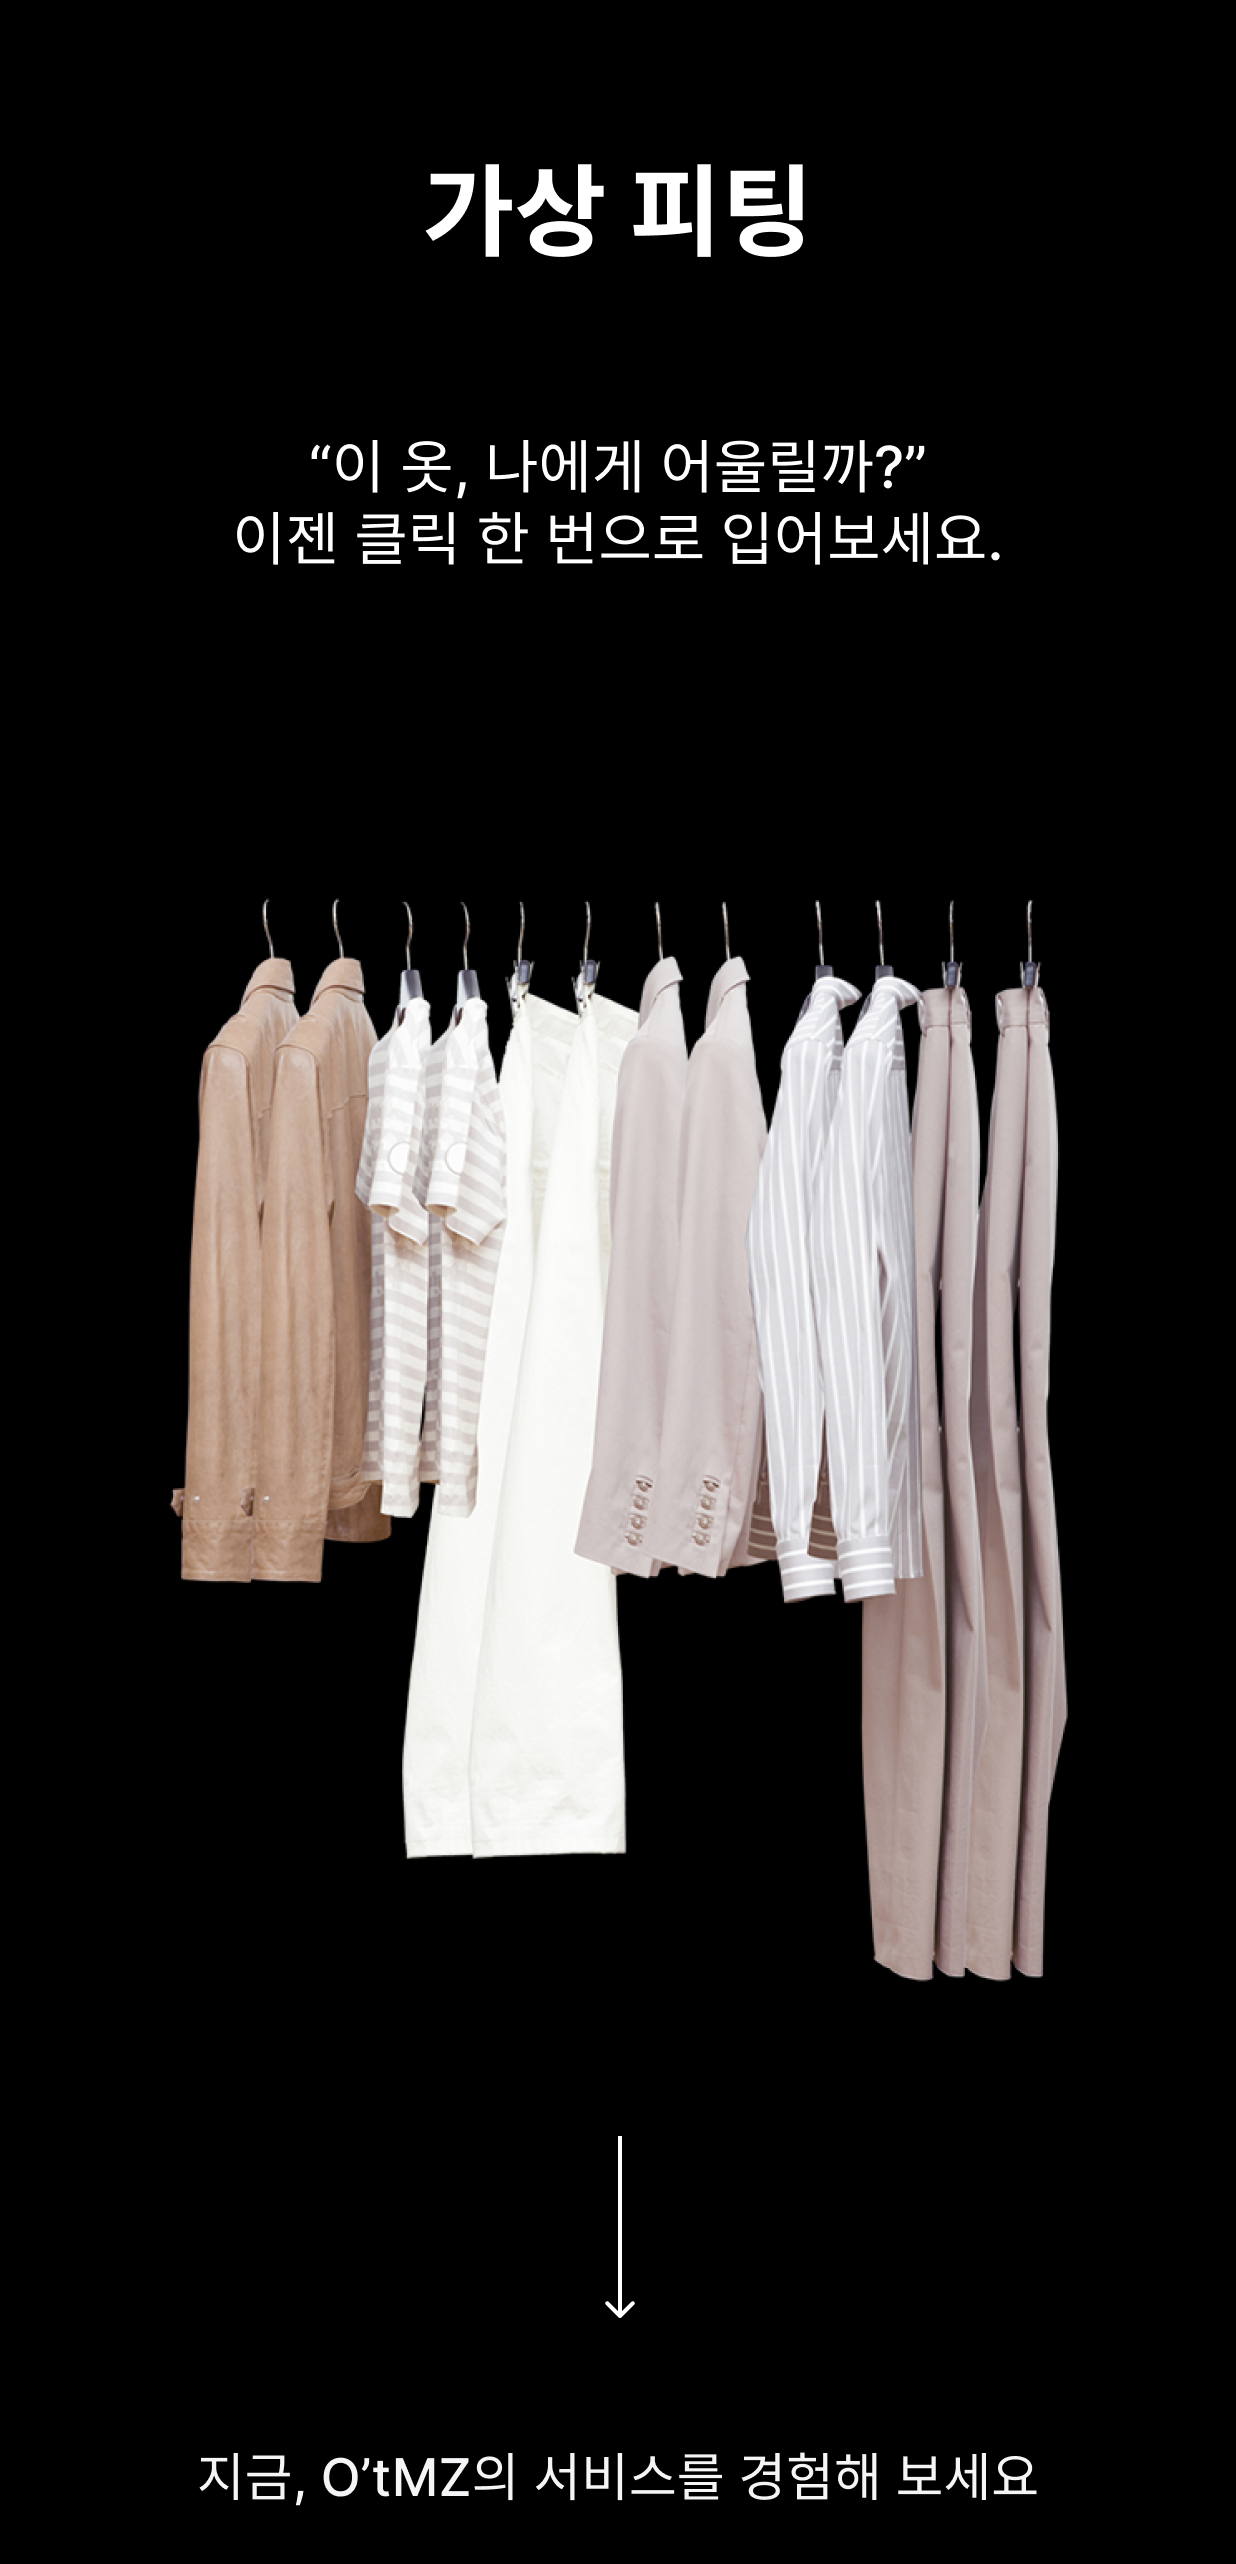
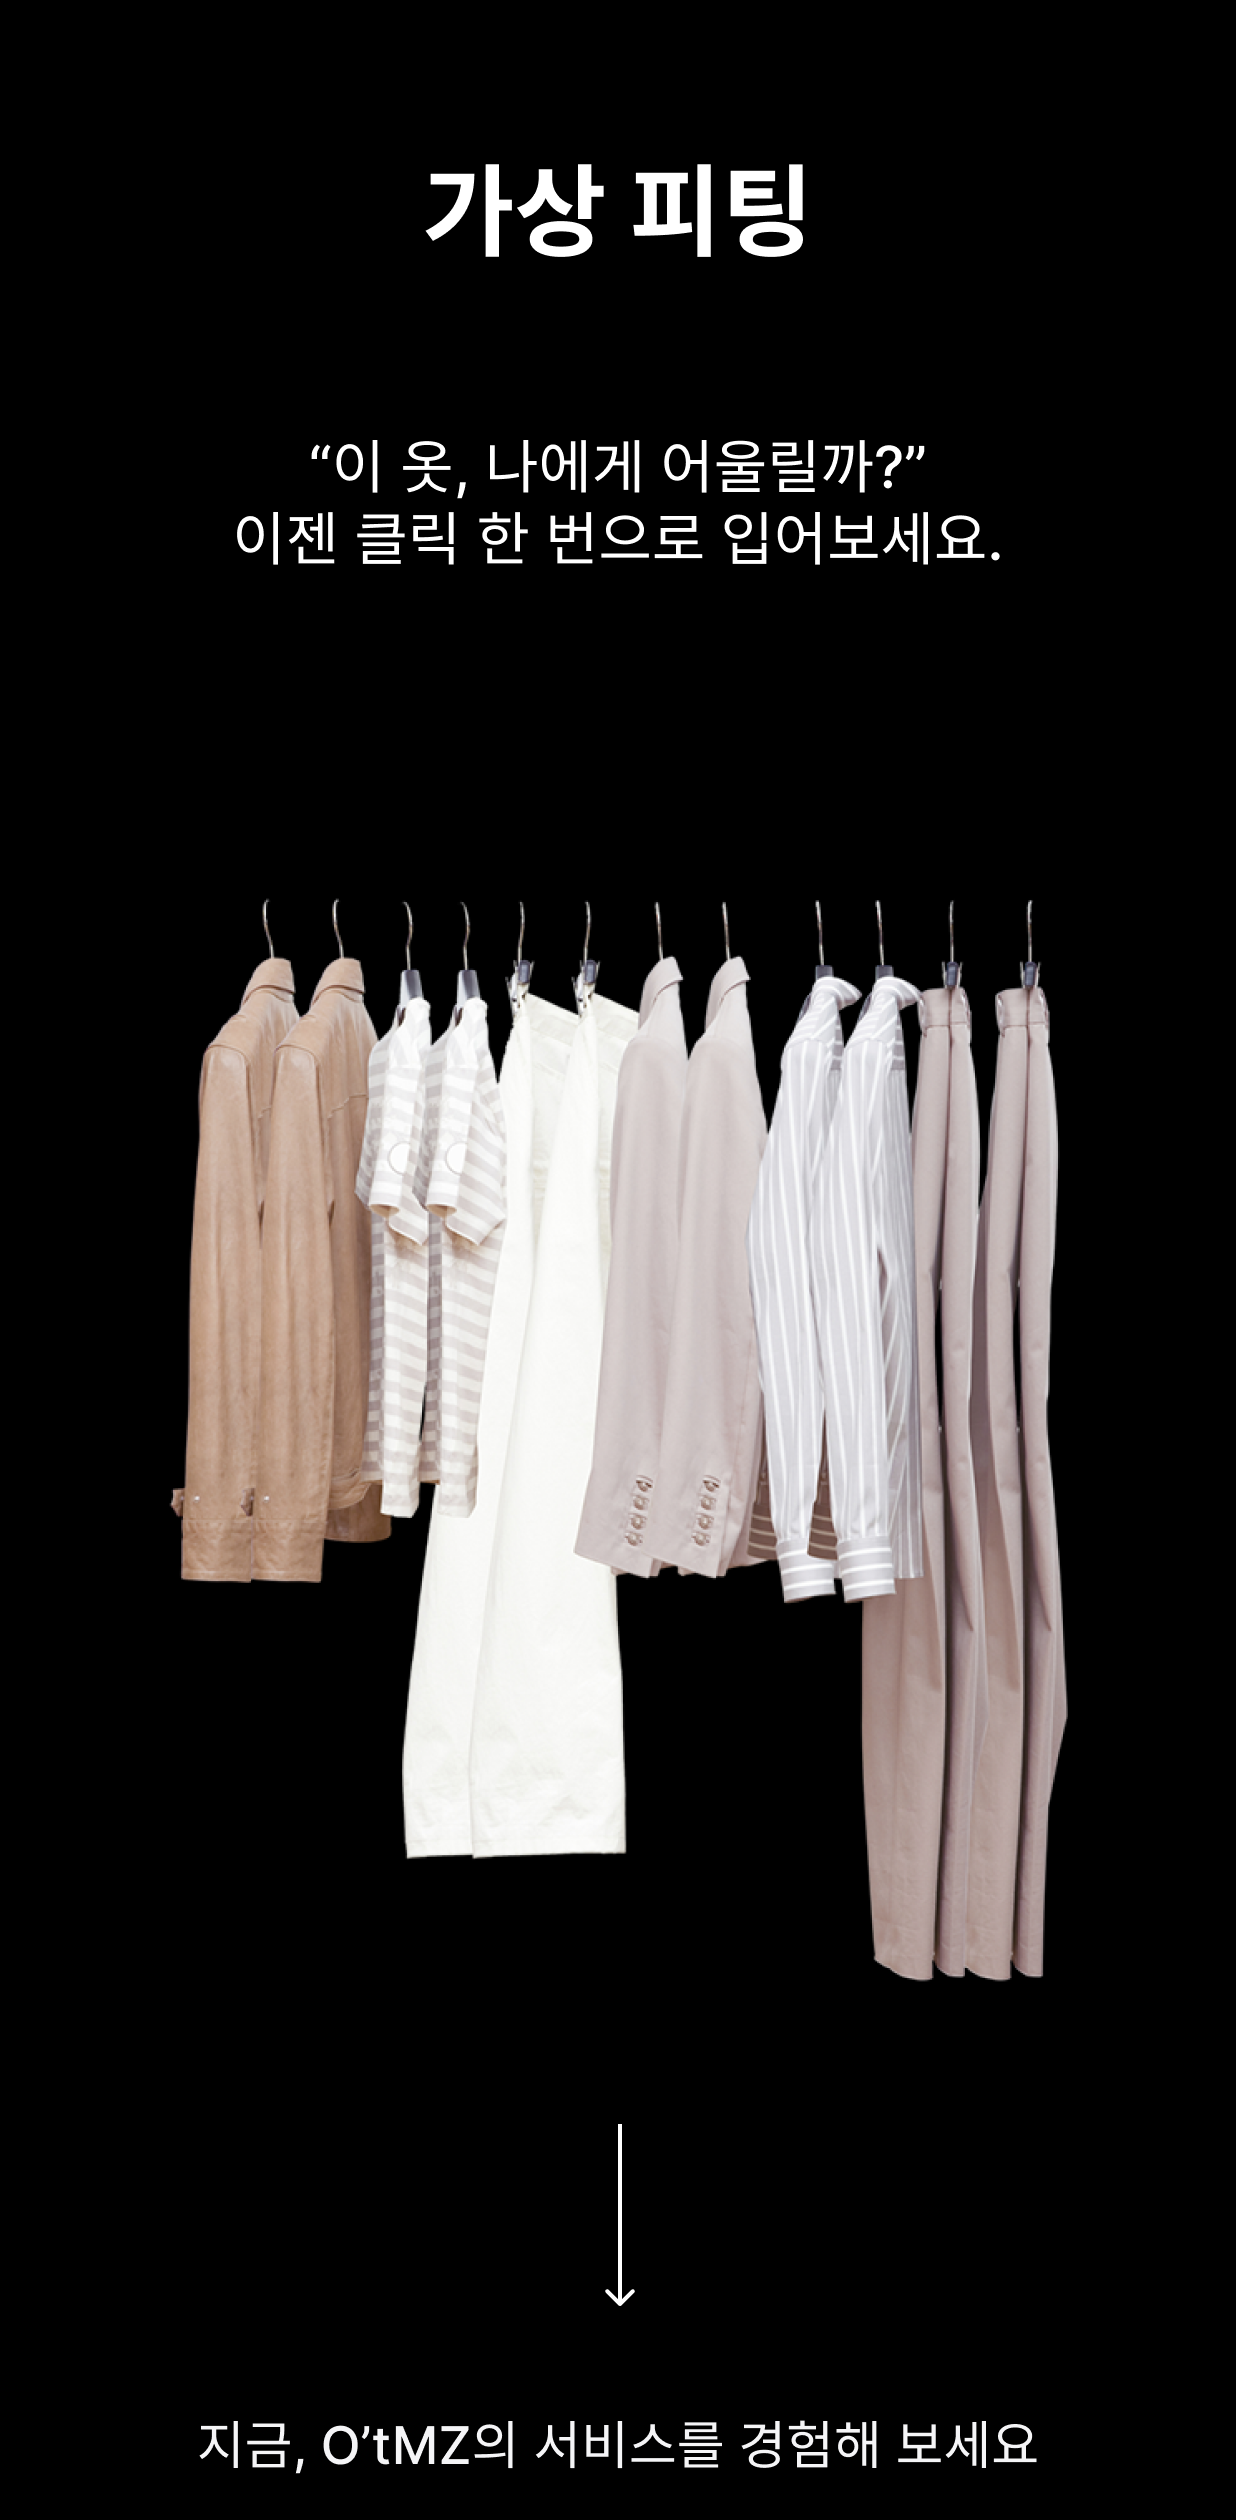
feature/fe/비로그인 mainpage 효과 추가

diff --git a/frontend/src/views/MainView.vue b/frontend/src/views/MainView.vue
@@ -1,27 +1,63 @@
 <template>
   <div v-if="Auth.memberId">{{ Auth }}</div>
-  <div v-else style="background-color:black">
-    <img src="@/assets/img/main1.png" style="width:100.3%">
-    <img src="@/assets/img/main2.png" style="width:100%">
-    <img src="@/assets/img/main3.png" style="width:100%">
-    <img src="@/assets/img/main4.png" style="width:100%">
+  <div v-else style="background-color:black" class="main">
+    <div id="start-div" style="height:820px; background-color:#FBFBFD">
+      <img data-aos="zoom-in" data-aos-duration="2000" src="@/assets/img/main1.png" style="width:100.3%">
+    </div>
+    
+    <div id="first-div"></div>
+    <img src="@/assets/img/main2.png"
+      data-aos="fade-up"
+      data-aos-anchor="#first-div"
+      data-aos-duration="380"
+      style="width:100%">
 
-    <div v-if="this.EndPoint = true" v-on:click=loginWithKakao()>
-      <div class="fade-in-box">
-        <div style="display:flex; align-items: center; margin: 0px 10px;">
-            <img src="@/assets/img/카카오톡.png" style="width:38px;">
-          &nbsp;&nbsp;&nbsp;&nbsp;
-            <span style="font-size:18px;">
+    <div id="second-div" style="height:820px; background-color:#FBFBFD">
+      <img src="@/assets/img/main3.png" 
+      data-aos="fade-up"
+      data-aos-anchor="#second-div"
+      data-aos-duration="380"
+      style="width:100%; ">
+    </div>  
+
+    <div id="third-div"></div>
+    <img src="@/assets/img/main4.png"
+      data-aos="zoom-in"
+      data-aos-anchor="#third-div"
+      data-aos-duration="380"
+      style="width:100%">
+
+
+    <div style="height:0px" id="last-div"></div>
+
+    <div
+      data-aos="fade-up"
+      data-aos-duration="500"
+      data-aos-anchor="#last-div"
+      v-on:click=loginWithKakao()>
+    <div class="fade-in-box">
+        <div style="display:flex; justify-content: center; align-items: center;  margin: 0px 10px;">
+            <img src="@/assets/img/카카오톡.png" style="width:15%;">
+              &nbsp;&nbsp;&nbsp;&nbsp;
+            <span style="font-size:95%;">
               Login with Kakao
             </span>
         </div>
       </div>
     </div>
+
+
   </div>
 </template>
 
 <script>
 import axios from "axios";
+import AOS from 'aos';
+import 'aos/dist/aos.css'; // You can also use <link> for styles
+AOS.init();
+
+
+
 export default {
   name: 'MainView',
   data() {
@@ -29,6 +65,11 @@ export default {
       EndPoint: false,
       Auth: this.$store.state.Auth
     }
+  },
+  created(){
+    AOS.init({
+    duration: 2400,
+    })
   },
   methods: {
     loginWithKakao: function () {
@@ -56,21 +97,24 @@ export default {
         .catch(error => console.log(error))
     }
 
-    window.addEventListener('scroll', () => {
-      let scrollLocation = document.documentElement.scrollTop; // 현재 스크롤바 위치
-      let windowHeight = window.innerHeight; // 스크린 창
-      let fullHeight = document.body.scrollHeight; //  margin 값은 포함 x
+ 
 
-      if (scrollLocation + windowHeight >= fullHeight) {
-        console.log('끝')
-        // alert('dd')
-        this.EndPoint = true
-        console.log(this.EndPoint)
-      } else {
-        this.EndPoint = false
-        console.log(this.EndPoint)
-      }
-    })
+
+    // window.addEventListener('scroll', () => {
+    //   let scrollLocation = document.documentElement.scrollTop; // 현재 스크롤바 위치
+    //   let windowHeight = window.innerHeight; // 스크린 창
+    //   let fullHeight = document.body.scrollHeight; //  margin 값은 포함 x
+
+    //   if (scrollLocation + windowHeight >= fullHeight) {
+    //     console.log('끝')
+    //     alert('dd')
+    //     this.EndPoint = true
+    //     console.log(this.EndPoint)
+    //   } else {
+    //     this.EndPoint = false
+    //     console.log(this.EndPoint)
+    //   }
+    // })
   }
 
 }
@@ -82,66 +126,12 @@ export default {
   display: inline-block;
   margin: 10px 0px 60px 0px;
   border-radius: 10px;
+  width: 55%;
   background: #fae100f8;
   color: #371C1D;
   font-weight: bold;
   padding: 10px;
-  animation: fadein 4.5s;
-  -moz-animation: fadein 4.5s;
-  /* Firefox */
-  -webkit-animation: fadein 4.5s;
-  /* Safari and Chrome */
-  -o-animation: fadein 4.5s;
-  /* Opera */
 }
-
-@keyframes fadein {
-  from {
-    opacity: 0;
-  }
-
-  to {
-    opacity: 1;
-  }
-}
-
-@-moz-keyframes fadein {
-
-  /* Firefox */
-  from {
-    opacity: 0;
-  }
-
-  to {
-    opacity: 1;
-  }
-}
-
-@-webkit-keyframes fadein {
-
-  /* Safari and Chrome */
-  from {
-    opacity: 0;
-  }
-
-  to {
-    opacity: 1;
-  }
-}
-
-@-o-keyframes fadein {
-
-  /* Opera */
-  from {
-    opacity: 0;
-  }
-
-  to {
-    opacity: 1;
-  }
-}
-
-
 
 
 
